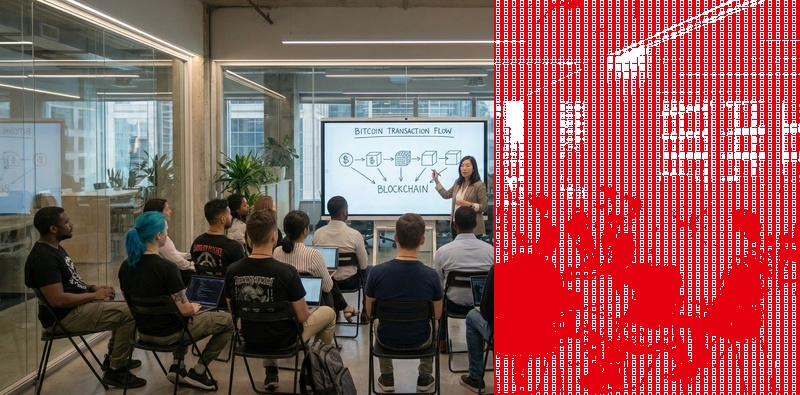
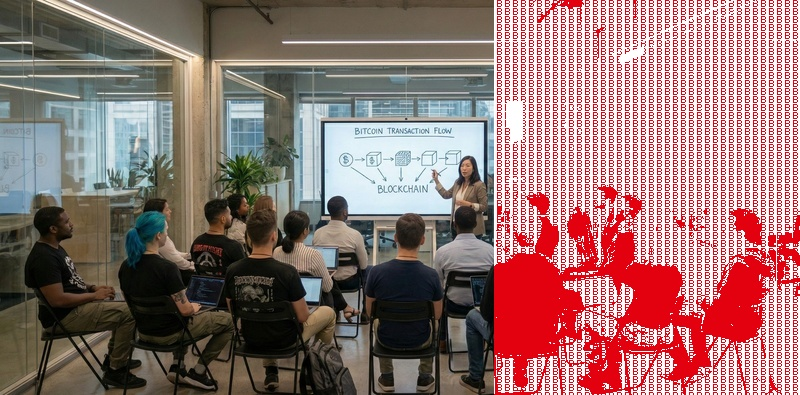
Improve Bitcoin pattern matrix and regenerate example
- Redesign BITCOIN_8x8 matrix for clearer B shape
- Vertical bar on left (low threshold)
- Two distinct humps on right (high threshold)
- Regenerated example-pattern-bitcoin.jpg with seed=42

Changed region(s): [[0.5938, 0.0, 1.0, 1.0]]

diff --git a/main.py b/main.py
@@ -72,14 +72,14 @@ CLUSTERED_8x8 = np.array([
 # Bitcoin custom pattern (8x8)
 # Creates a "B" shape for Bitcoin branding with two humps
 BITCOIN_8x8 = np.array([
-    [10, 10, 10, 10, 50, 60, 55, 45],
-    [10, 50, 50, 10, 50, 60, 55, 45],
-    [10, 50, 50, 10, 50, 60, 55, 45],
-    [10, 10, 10, 10, 50, 60, 55, 45],
-    [10, 50, 50, 10, 50, 60, 55, 45],
-    [10, 50, 50, 10, 50, 60, 55, 45],
-    [10, 10, 10, 10, 50, 60, 55, 45],
-    [60, 60, 60, 60, 60, 60, 55, 45],
+    [10, 60, 60, 60, 60, 10, 10, 10],
+    [10, 60, 10, 10, 10, 60, 10, 10],
+    [10, 60, 10, 10, 10, 60, 10, 10],
+    [10, 60, 60, 60, 60, 10, 10, 10],
+    [10, 60, 10, 10, 10, 60, 10, 10],
+    [10, 60, 10, 10, 10, 60, 10, 10],
+    [10, 60, 60, 60, 60, 10, 10, 10],
+    [10, 10, 10, 10, 10, 10, 10, 10],
 ], dtype=float) / 64.0
 
 
